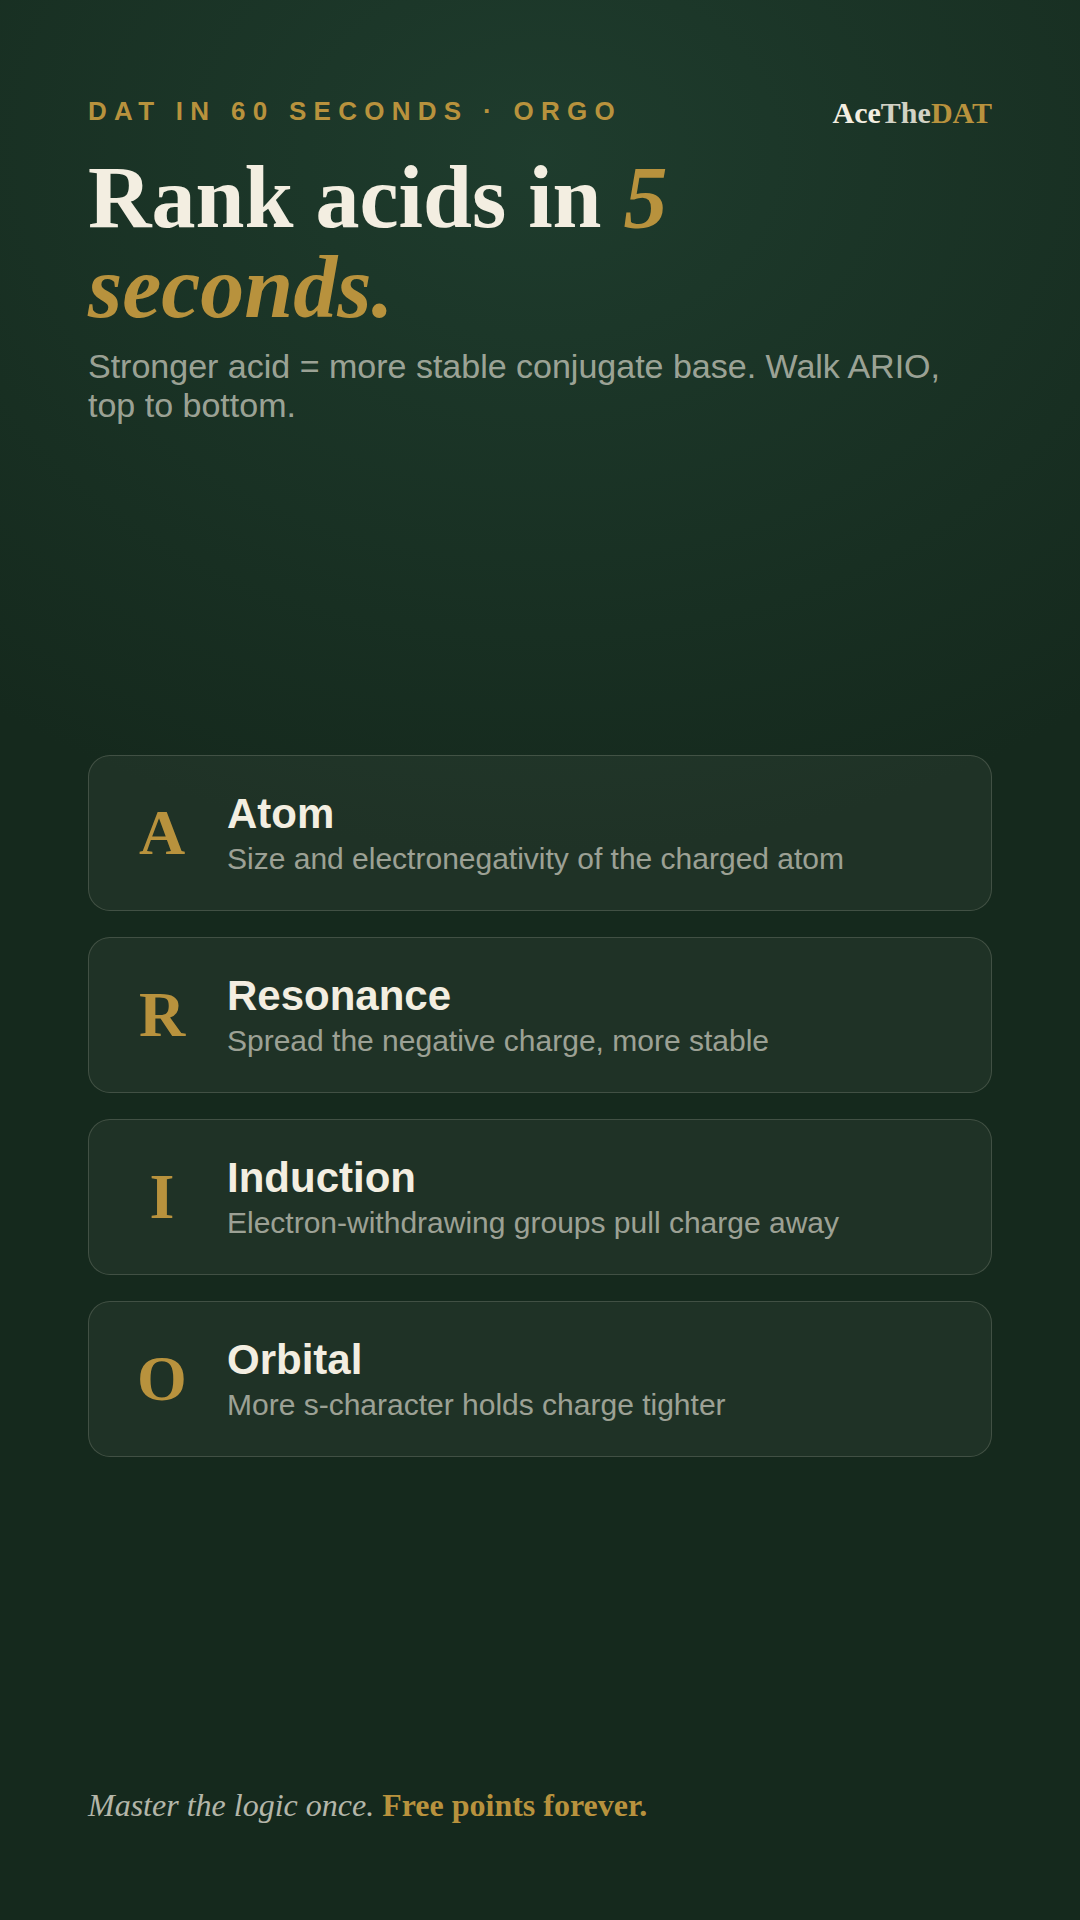
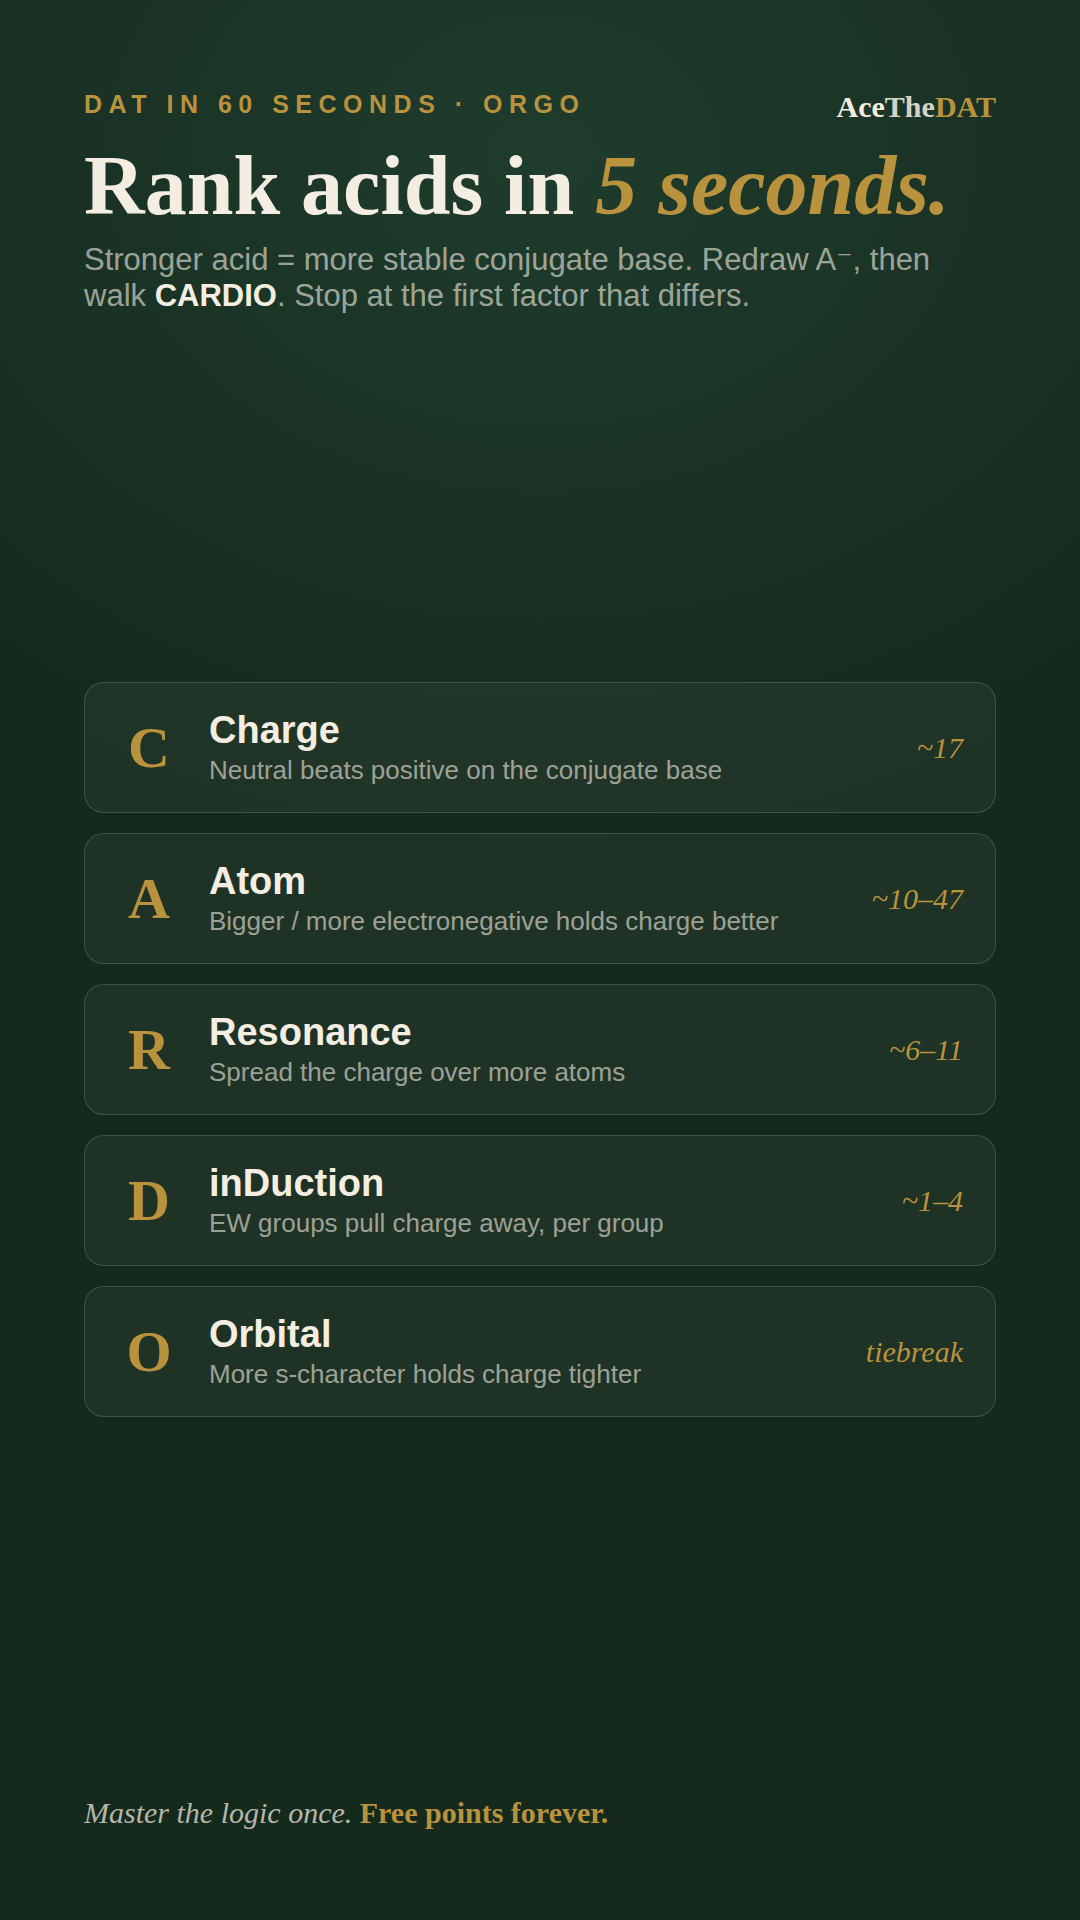
Ground O Chem + Gen Chem social assets in the real Ace Labs tools
Align the orgo and gen chem posts and stills to the actual tool content so
click-throughs match what the videos teach:

- Acidity: switch ARIO -> CARDIO (Charge, Atom, Resonance, inDuction, Orbital)
  with the tool's quantitative factor weights; redraw-the-conjugate-base lead.
  Rewrites the acidity still and Post 5.
- EAS: adopt the tool's 4-word rule (donor o/p, withdrawer m, halogen exception,
  alkyl weak o/p) + the sigma-withdraw/pi-donate split, and the nitrate-before-
  brominate meta-synthesis trap. Updates the EAS still and Post 1.
- Gen Chem: add the ionization-energy anomalies (Be>B, N>O) the trends tool
  drills as the high-yield trap. Updates Post 7.
- Post 9 (tool spotlight) now names the roadmap, CARDIO ladder, and EAS breakdown.
- Deep-link pinned comments to #acid-base-cardio and #aromatic; README links updated.

Claude-Session: https://claude.ai/code/session_011wxwG4RJuWyRkY3SmPEfSN

diff --git a/labs/social/stills/src/acidity-ranking.html b/labs/social/stills/src/acidity-ranking.html
@@ -5,32 +5,36 @@
   *{margin:0;box-sizing:border-box;}
   html,body{width:1080px;height:1920px;}
   body{background:var(--pine);background-image:radial-gradient(900px 700px at 50% 8%,rgba(31,61,46,.95),var(--pine));
-    color:var(--cream);font-family:'DM Sans',sans-serif;padding:96px 88px;display:flex;flex-direction:column;}
-  .mark{position:absolute;top:96px;right:88px;font-family:'Playfair Display',serif;font-size:30px;font-weight:700;}
+    color:var(--cream);font-family:'DM Sans',sans-serif;padding:90px 84px;display:flex;flex-direction:column;}
+  .mark{position:absolute;top:90px;right:84px;font-family:'Playfair Display',serif;font-size:30px;font-weight:700;}
   .mark .g{color:var(--gold);}
-  .kick{font-size:26px;font-weight:700;letter-spacing:.28em;text-transform:uppercase;color:var(--gold);}
-  h1{font-family:'Playfair Display',serif;font-size:88px;line-height:1.02;font-weight:800;margin:26px 0 14px;}
+  .kick{font-size:25px;font-weight:700;letter-spacing:.26em;text-transform:uppercase;color:var(--gold);}
+  h1{font-family:'Playfair Display',serif;font-size:84px;line-height:1.02;font-weight:800;margin:24px 0 12px;}
   h1 em{color:var(--gold);font-style:italic;}
-  .sub{font-size:34px;color:rgba(243,238,225,.62);margin-bottom:40px;}
-  .ario{flex:1;display:flex;flex-direction:column;gap:26px;justify-content:center;}
-  .step{display:flex;align-items:center;gap:30px;background:rgba(243,238,225,.05);border:1px solid rgba(243,238,225,.16);border-radius:22px;padding:34px 38px;}
-  .badge{font-family:'Playfair Display',serif;font-size:64px;font-weight:800;color:var(--gold);width:70px;flex:none;text-align:center;}
-  .body .t{font-size:42px;font-weight:700;}
-  .body .d{font-size:30px;color:rgba(243,238,225,.6);margin-top:4px;}
-  .foot{margin-top:40px;font-family:'Playfair Display',serif;font-style:italic;font-size:32px;color:rgba(243,238,225,.72);}
+  .sub{font-size:31px;color:rgba(243,238,225,.62);margin-bottom:14px;}
+  .sub b{color:var(--cream);font-weight:700;}
+  .ario{flex:1;display:flex;flex-direction:column;gap:20px;justify-content:center;}
+  .step{display:flex;align-items:center;gap:28px;background:rgba(243,238,225,.05);border:1px solid rgba(243,238,225,.16);border-radius:20px;padding:26px 32px;}
+  .badge{font-family:'Playfair Display',serif;font-size:58px;font-weight:800;color:var(--gold);width:64px;flex:none;text-align:center;}
+  .body{flex:1;}
+  .body .t{font-size:38px;font-weight:700;}
+  .body .d{font-size:26px;color:rgba(243,238,225,.6);margin-top:3px;}
+  .wt{font-family:'Playfair Display',serif;font-style:italic;font-size:30px;color:var(--gold);white-space:nowrap;flex:none;}
+  .foot{margin-top:24px;font-family:'Playfair Display',serif;font-style:italic;font-size:30px;color:rgba(243,238,225,.72);}
   .foot b{color:var(--gold);font-style:normal;}
 </style></head>
 <body>
   <div class="mark">Ace<span style="opacity:.85">The</span><span class="g">DAT</span></div>
   <div class="kick">DAT in 60 seconds · Orgo</div>
   <h1>Rank acids in <em>5 seconds.</em></h1>
-  <div class="sub">Stronger acid = more stable conjugate base. Walk ARIO, top to bottom.</div>
+  <div class="sub">Stronger acid = more stable conjugate base. Redraw A⁻, then walk <b>CARDIO</b>. Stop at the first factor that differs.</div>
 
   <div class="ario">
-    <div class="step"><div class="badge">A</div><div class="body"><div class="t">Atom</div><div class="d">Size and electronegativity of the charged atom</div></div></div>
-    <div class="step"><div class="badge">R</div><div class="body"><div class="t">Resonance</div><div class="d">Spread the negative charge, more stable</div></div></div>
-    <div class="step"><div class="badge">I</div><div class="body"><div class="t">Induction</div><div class="d">Electron-withdrawing groups pull charge away</div></div></div>
-    <div class="step"><div class="badge">O</div><div class="body"><div class="t">Orbital</div><div class="d">More s-character holds charge tighter</div></div></div>
+    <div class="step"><div class="badge">C</div><div class="body"><div class="t">Charge</div><div class="d">Neutral beats positive on the conjugate base</div></div><div class="wt">~17</div></div>
+    <div class="step"><div class="badge">A</div><div class="body"><div class="t">Atom</div><div class="d">Bigger / more electronegative holds charge better</div></div><div class="wt">~10–47</div></div>
+    <div class="step"><div class="badge">R</div><div class="body"><div class="t">Resonance</div><div class="d">Spread the charge over more atoms</div></div><div class="wt">~6–11</div></div>
+    <div class="step"><div class="badge">D</div><div class="body"><div class="t">inDuction</div><div class="d">EW groups pull charge away, per group</div></div><div class="wt">~1–4</div></div>
+    <div class="step"><div class="badge">O</div><div class="body"><div class="t">Orbital</div><div class="d">More s-character holds charge tighter</div></div><div class="wt">tiebreak</div></div>
   </div>
 
   <div class="foot">Master the logic once. <b>Free points forever.</b></div>

diff --git a/labs/social/stills/src/eas-directors.html b/labs/social/stills/src/eas-directors.html
@@ -48,9 +48,9 @@
   </div>
 
   <div class="legend">
-    <div class="lrow"><span class="dot" style="background:#5FA874"></span><span class="ltext"><b>Activating</b> group → ortho / para</span></div>
-    <div class="lrow"><span class="dot" style="background:#D55E00"></span><span class="ltext"><b>Deactivating</b> group → meta</span></div>
-    <div class="lrow"><span class="dot" style="background:#b8923d"></span><span class="ltext"><b>Halogen</b> → deactivating BUT o / p</span></div>
+    <div class="lrow"><span class="dot" style="background:#5FA874"></span><span class="ltext"><b>Donor</b> (lone pair / alkyl) → ortho / para</span></div>
+    <div class="lrow"><span class="dot" style="background:#D55E00"></span><span class="ltext"><b>Withdrawer</b> → meta</span></div>
+    <div class="lrow"><span class="dot" style="background:#b8923d"></span><span class="ltext"><b>Halogen</b> = exception: deactivates BUT o / p</span></div>
   </div>
-  <div class="foot">The one exception that breaks the pattern.</div>
+  <div class="foot">σ-withdraws for speed, π-donates for position.</div>
 </body></html>

diff --git a/labs/social/posts/07-genchem-periodic-trends.md b/labs/social/posts/07-genchem-periodic-trends.md
@@ -14,25 +14,27 @@
 > The periodic trends question everyone overthinks.
 
 ### Script beat sheet (30–45s)
-1. **The setup (0–8s):** periodic trends should be guaranteed points, but one comparison trips people up.
-2. **The misread (8–22s):** the common flip is atomic radius vs ionization energy — students reverse the direction across a period.
-3. **The shortcut (22–40s):** radius shrinks left-to-right and grows top-to-bottom; ionization energy does the opposite. Pin one arrow and the rest follow.
-4. **Proof tag (40–45s):** "Lock the arrows once and these stop being misses."
+1. **The setup (0–6s):** periodic trends should be guaranteed points, but the DAT hides the points in the exceptions.
+2. **The base rule (6–18s):** atomic radius shrinks left to right and grows down a group; ionization energy and electronegativity do the opposite. Pin one arrow and the rest follow.
+3. **The 600-level trap (18–38s):** ionization energy is NOT a clean climb across a period. It dips twice. Group 2 → 13 (Be > B): you are pulling an easier-to-remove p electron. Group 15 → 16 (N > O): you are breaking a stable half-filled p³ set. Those two dips are exactly where the DAT writes the distractor.
+4. **Proof tag (38–45s):** "Lock the arrows AND the two dips and these stop being misses."
 
 ### Shot / visual note
-Gen Chem suite periodic-trends graphic with directional arrows. Highlight the radius vs ionization-energy comparison. Use `genchem-trends.png` as the hook frame.
+Gen Chem periodic-trends graphic with directional arrows (`genchem-trends.png`).
+If you have screen time, flash the Be > B and N > O comparisons on the trends tool's
+heatmap to show the anomalies are real, not a rounding error.
 
 ### Caption (keyword-rich)
-Periodic trends should be guaranteed points on DAT Gen Chem. The one comparison students keep flipping is atomic radius vs ionization energy across a period. Radius shrinks left to right, ionization energy climbs — pin one arrow and the rest follow. Save this.
+Periodic trends should be guaranteed points on DAT Gen Chem. The base rule: atomic radius shrinks left to right, ionization energy and electronegativity climb. But ionization energy is not a clean climb. It dips at Be to B and again at N to O, and that is exactly where the DAT plants the wrong answer. Lock the arrows and the two dips. Save this.
 
 ### Hashtags
 #dat #generalchemistry #predental
 
 ### Pinned comment (CTA — never in-video)
-Free interactive periodic-trends explorer → https://acelabs.netlify.app/tools/gc/trends.html
+Free interactive periodic-trends explorer (heatmap + anomaly speed drill) → https://acelabs.netlify.app/tools/gc/trends.html
 
 ### Production checklist
 - [ ] Export clean vertical 9:16, no watermark
-- [ ] Proof captions: "periodic trends", "atomic radius", "ionization energy", "electronegativity"
+- [ ] Proof captions: "periodic trends", "atomic radius", "ionization energy", "electronegativity", "half-filled"
 - [ ] Native upload FB + IG Reels + TikTok
 - [ ] Paste pinned comment after posting

diff --git a/labs/social/posts/01-eas-directors.md b/labs/social/posts/01-eas-directors.md
@@ -15,24 +15,27 @@
 
 ### Script beat sheet (30–45s)
 1. **The trap (0–8s):** students memorize ortho/para vs meta blindly and freeze under time.
-2. **The rule (8–28s):** activating groups → ortho/para directors; deactivating groups → meta directors. The one exception you must know: **halogens are deactivating BUT still ortho/para directors.**
-3. **The visual (28–40s):** walk the director positions on the reaction map; point to where the incoming group lands.
-4. **Proof tag (40–45s):** "Drill this and you stop losing easy orgo points. This is what we drill 1:1."
+2. **The 4-word rule (8–28s):** Donor → ortho/para. Withdrawer → meta. Halogen = exception. Alkyl → ortho/para (weak). Every DAT directing question is one of those four cases.
+3. **The exception (28–38s):** halogens deactivate (σ-withdraw, so slower than benzene) BUT still direct ortho/para (π-donate). The only split substituent class.
+4. **Bonus trap (38–43s):** want meta-bromonitrobenzene? Nitrate first, then brominate. Reverse the order and Br sends you ortho/para.
+5. **Proof tag (43–45s):** "Drill this and you stop losing easy orgo points."
 
 ### Shot / visual note
-Orgo reaction visualizer EAS map fills the frame (9:16). Highlight director positions as you narrate. Use `eas-directors.png` as the cold-open hook frame.
+Use `eas-directors.png` as the cold-open hook frame (benzene ring with o/p vs meta
+positions + the halogen exception). Then walk the director positions on the orgo
+reaction visualizer's EAS map.
 
 ### Caption (keyword-rich)
-Electrophilic aromatic substitution wrecks more DAT orgo scores than almost any topic. Here is how to never miss a directors question again: activating groups send the next substituent ortho or para, deactivating groups send it meta, and halogens are the exception that breaks the pattern. Save this for your next orgo review block.
+Electrophilic aromatic substitution wrecks more DAT orgo scores than almost any topic. Here is the whole thing in four words: donors direct ortho and para, withdrawers direct meta, halogens are the exception (they deactivate but still send ortho/para), and alkyl groups are weak ortho/para directors. Bonus trap: to build a meta product, nitrate before you brominate. Save this for your next orgo review block.
 
 ### Hashtags
 #dat #predental #organicchemistry
 
 ### Pinned comment (CTA — never in-video)
-Free interactive orgo reaction maps here → https://acelabs.netlify.app/tools/ochem/
+Free interactive orgo reaction maps + EAS directing breakdown → https://acelabs.netlify.app/tools/ochem/#aromatic
 
 ### Production checklist
 - [ ] Export clean vertical 9:16, no watermark
-- [ ] Proof science-term captions: "electrophilic", "ortho/para", "meta", "deactivating", "halogen"
+- [ ] Proof science-term captions: "electrophilic", "ortho/para", "meta", "deactivate", "halogen", "nitrate", "brominate"
 - [ ] Native upload FB + IG Reels + TikTok (no cross-post links)
 - [ ] Paste pinned comment immediately after posting

diff --git a/labs/social/posts/05-orgo-acidity.md b/labs/social/posts/05-orgo-acidity.md
@@ -15,24 +15,27 @@
 
 ### Script beat sheet (30–45s)
 1. **The challenge (0–8s):** put 3–4 acids on screen, start a mental timer.
-2. **The framework (8–35s):** ARIO — stability of the conjugate base decides acidity. Walk Atom (size/electronegativity) → Resonance → Induction → Orbital. More stable conjugate base = stronger acid.
-3. **One worked ranking (35–42s):** apply ARIO to the on-screen set, fastest decision first.
-4. **Proof tag (42–45s):** "Master the stability logic once and it is free points forever."
+2. **The one move (8–18s):** stop reciting pKa tables. Redraw the conjugate base (A⁻) first. Stronger acid = more stable conjugate base.
+3. **The framework (18–38s):** walk **CARDIO** in order and stop at the first factor that differs:
+   Charge → Atom → Resonance → inDuction → Orbital. Charge dominates (~17 units), Atom is next (~10–47 across the period), Resonance (~6–11), Induction (~1–4 per group), Orbital breaks ties.
+4. **Proof tag (38–45s):** "Master the stability logic once and it is free points forever. This is what we drill 1:1."
 
 ### Shot / visual note
-Acidity comparison on the reaction map; reveal the ranking as you apply each ARIO factor. Use `acidity-ranking.png` as the hook frame.
+Use `acidity-ranking.png` (the CARDIO ladder) as the hook frame, then reveal the
+ranking factor by factor on the reaction map. The mnemonic doubles as the brand
+tie: it literally spells CARDIO.
 
 ### Caption (keyword-rich)
-Acidity ranking shows up everywhere on DAT orgo. The trick is to stop memorizing pKa tables and rank by conjugate-base stability instead: Atom, Resonance, Induction, Orbital. Master the stability logic once and it is free points forever. Save this for your orgo review.
+Acidity ranking shows up all over DAT orgo, and the trick is to stop memorizing pKa tables. Redraw the conjugate base first, then walk CARDIO: Charge, Atom, Resonance, inDuction, Orbital. Charge wins, then atom, then resonance. Stop at the first factor that differs. Master the stability logic once and it is free points forever. Save this for your orgo review.
 
 ### Hashtags
 #dat #organicchemistry #predental
 
 ### Pinned comment (CTA — never in-video)
-Free interactive orgo reaction maps → https://acelabs.netlify.app/tools/ochem/
+Free interactive CARDIO acidity ladder + reaction maps → https://acelabs.netlify.app/tools/ochem/#acid-base-cardio
 
 ### Production checklist
 - [ ] Export clean vertical 9:16, no watermark
-- [ ] Proof captions: "acidity", "conjugate base", "resonance", "induction", "pKa"
+- [ ] Proof captions: "acidity", "conjugate base", "CARDIO", "resonance", "induction", "pKa"
 - [ ] Native upload FB + IG Reels + TikTok
 - [ ] Paste pinned comment after posting

diff --git a/labs/social/posts/09-tool-spotlight-orgo.md b/labs/social/posts/09-tool-spotlight-orgo.md
@@ -15,14 +15,20 @@
 
 ### Script beat sheet (30–45s)
 1. **The problem (0–8s):** students memorize reactions in isolation and never see how they connect.
-2. **The demo (8–38s):** quick screen capture of `tools/ochem/index.html` — show tapping into a reaction node, the director map, how reactions link. Narrate one real study-session use: "pick the reaction you missed, trace what feeds into it."
+2. **The demo (8–38s):** quick screen capture of the orgo visualizer. Show three things students actually use:
+   - the functional-group **roadmap** (tap a hub, see what it converts to),
+   - the **CARDIO** acidity ladder (rank by conjugate-base stability, not pKa tables),
+   - the **EAS directing** breakdown with the halogen exception.
+   Narrate one real study move: "pick the reaction you missed, trace what feeds into it."
 3. **The offer (38–45s):** "Free, no signup. Use it in your next orgo block."
 
 ### Shot / visual note
-Screen capture of the orgo reaction visualizer (`tools/ochem/index.html`) in portrait, or a clean **[GRAPHIC]** of the map with a "free, no signup" tag. Keep the UI legible at 9:16.
+Screen capture of the orgo reaction visualizer (`tools/ochem/index.html`) in portrait,
+or a clean **[GRAPHIC]** of the roadmap with a "free, no signup" tag. Keep the UI
+legible at 9:16. Deep-link sections: `#acid-base-cardio`, `#aromatic`.
 
 ### Caption (keyword-rich)
-Stop memorizing DAT organic chemistry reactions in isolation. We built a free interactive map that shows how every reaction connects — substitution, addition, directors, the lot. No signup, no email wall. Save it and pull it up during your next orgo study block.
+Stop memorizing DAT organic chemistry reactions in isolation. We built a free interactive map that shows how every reaction connects, plus a CARDIO acidity ladder and the full EAS directing breakdown with the halogen exception. No signup, no email wall. Save it and pull it up during your next orgo study block.
 
 ### Hashtags
 #dat #organicchemistry #predental
@@ -32,6 +38,6 @@ Open the free orgo reaction map → https://acelabs.netlify.app/tools/ochem/
 
 ### Production checklist
 - [ ] Screen-record the tool in portrait, legible text
-- [ ] Proof captions: "organic chemistry", "substitution", "addition"
+- [ ] Proof captions: "organic chemistry", "CARDIO", "electrophilic aromatic substitution", "halogen"
 - [ ] Native upload FB + IG Reels + TikTok
 - [ ] Paste pinned comment after posting

diff --git a/labs/social/README.md b/labs/social/README.md
@@ -21,11 +21,18 @@ intentionally skipped).
 | `stills/src/*.html` | Source for each still. Edit, then re-render (below). |
 
 ## Free-tool links used in posts
-- Orgo reaction maps → https://acelabs.netlify.app/tools/ochem/
+- Orgo reaction maps (roadmap) → https://acelabs.netlify.app/tools/ochem/
+- Orgo · CARDIO acidity ladder → https://acelabs.netlify.app/tools/ochem/#acid-base-cardio
+- Orgo · EAS directing breakdown → https://acelabs.netlify.app/tools/ochem/#aromatic
 - Gen Chem periodic trends → https://acelabs.netlify.app/tools/gc/trends.html
 - QR pattern system → https://acelabs.netlify.app/tools/qr/qr-pattern-system-v1.html
 - Strategy call / contact → https://acethedat.com/contact.html
 - Team → https://acethedat.com/team.html
+
+The O Chem and Gen Chem posts (1, 5, 7, 9) and their stills are grounded in the
+actual Ace Labs tool content: the **CARDIO** acidity framework (Charge, Atom,
+Resonance, inDuction, Orbital), the EAS "4-word rule" + halogen exception, and the
+ionization-energy anomalies (Be > B, N > O) the trends tool drills.
 
 > Note: there is no dedicated PAT keyhole tool in Ace Labs yet. Post 2 points to
 > the Ace Labs home until one exists.
